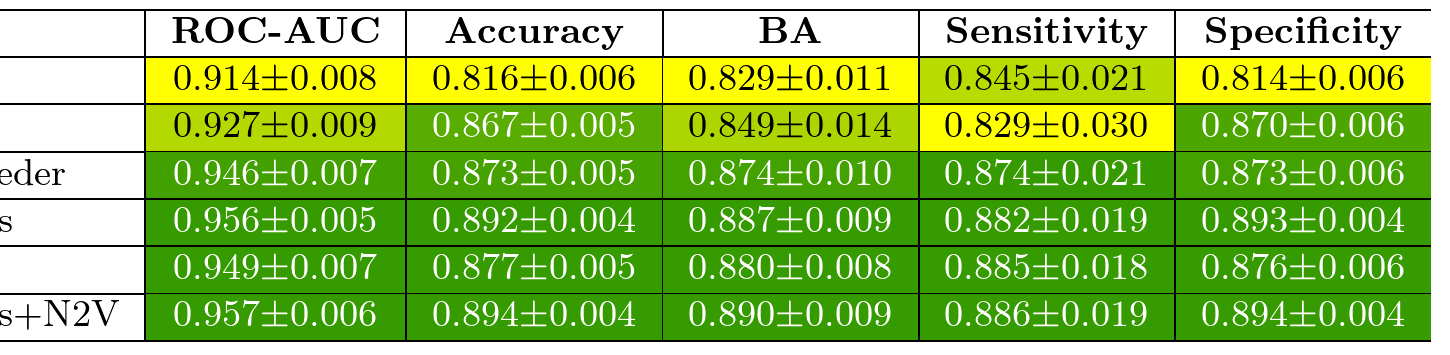
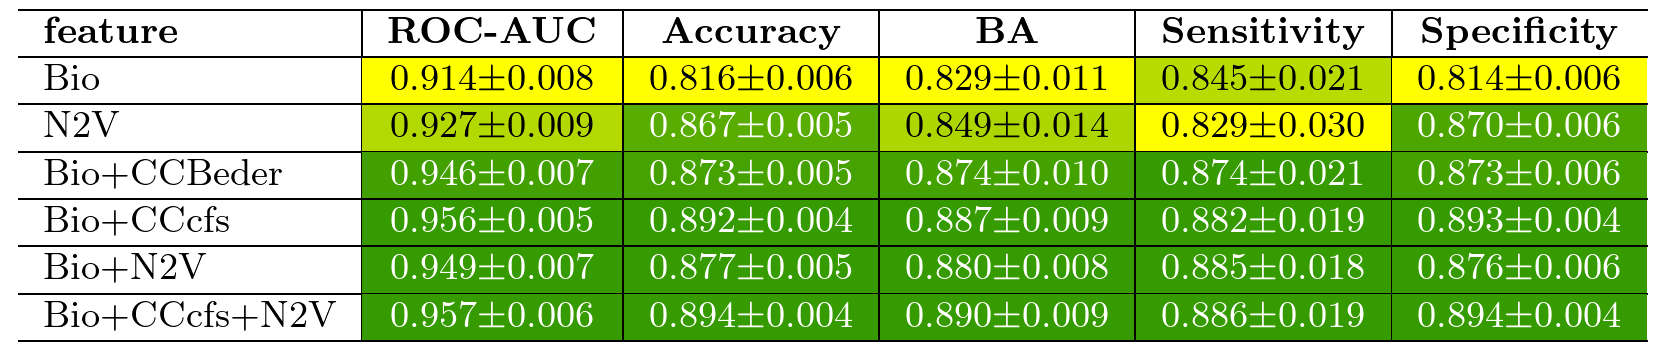
upd

diff --git a/texexample/main.tex b/texexample/main.tex
@@ -2,6 +2,9 @@
 \documentclass[preview,border=2pt,convert={density=300,outext=.png}]{standalone}
 \input{heattable.tex}
 \begin{document}
-\hspace{-\textwidth}
-\heattable{../results/EvsNEKidney.csv}{greenyellow} \\
+\begin{minipage}{1.15\textwidth}
+    \begin{center}
+        \heattable{../results/EvsNEKidney.csv}{greenyellow} \\
+    \end{center}
+\end{minipage}
 \end{document}
